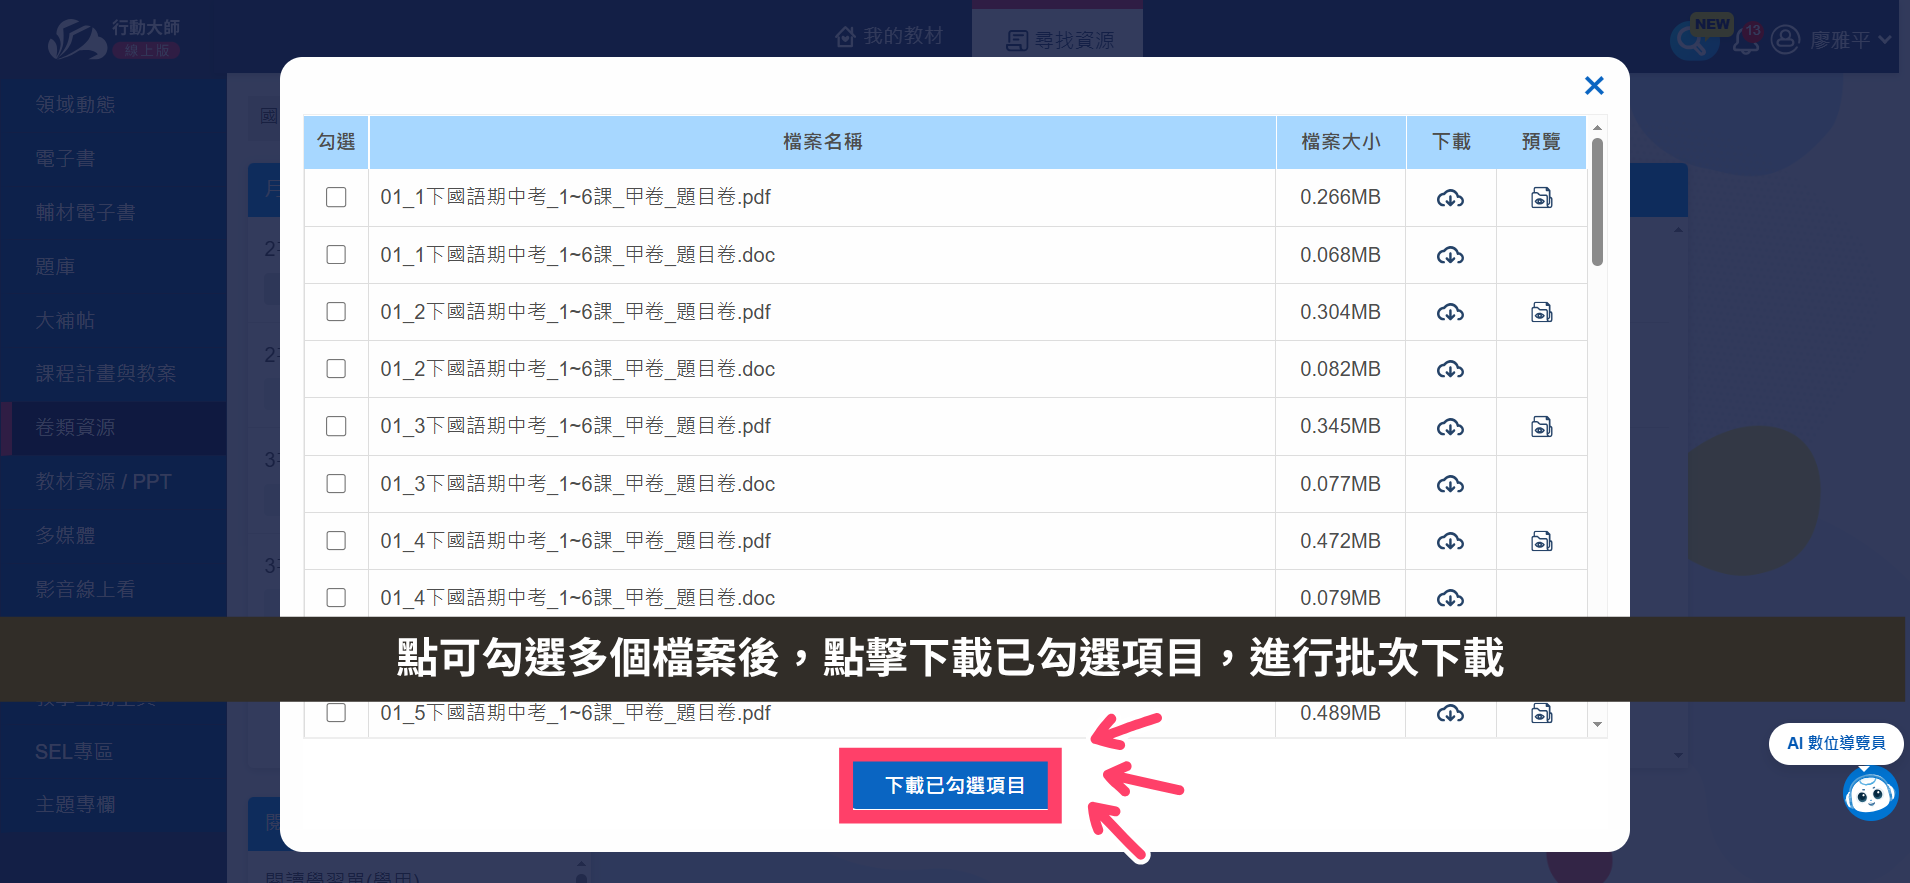
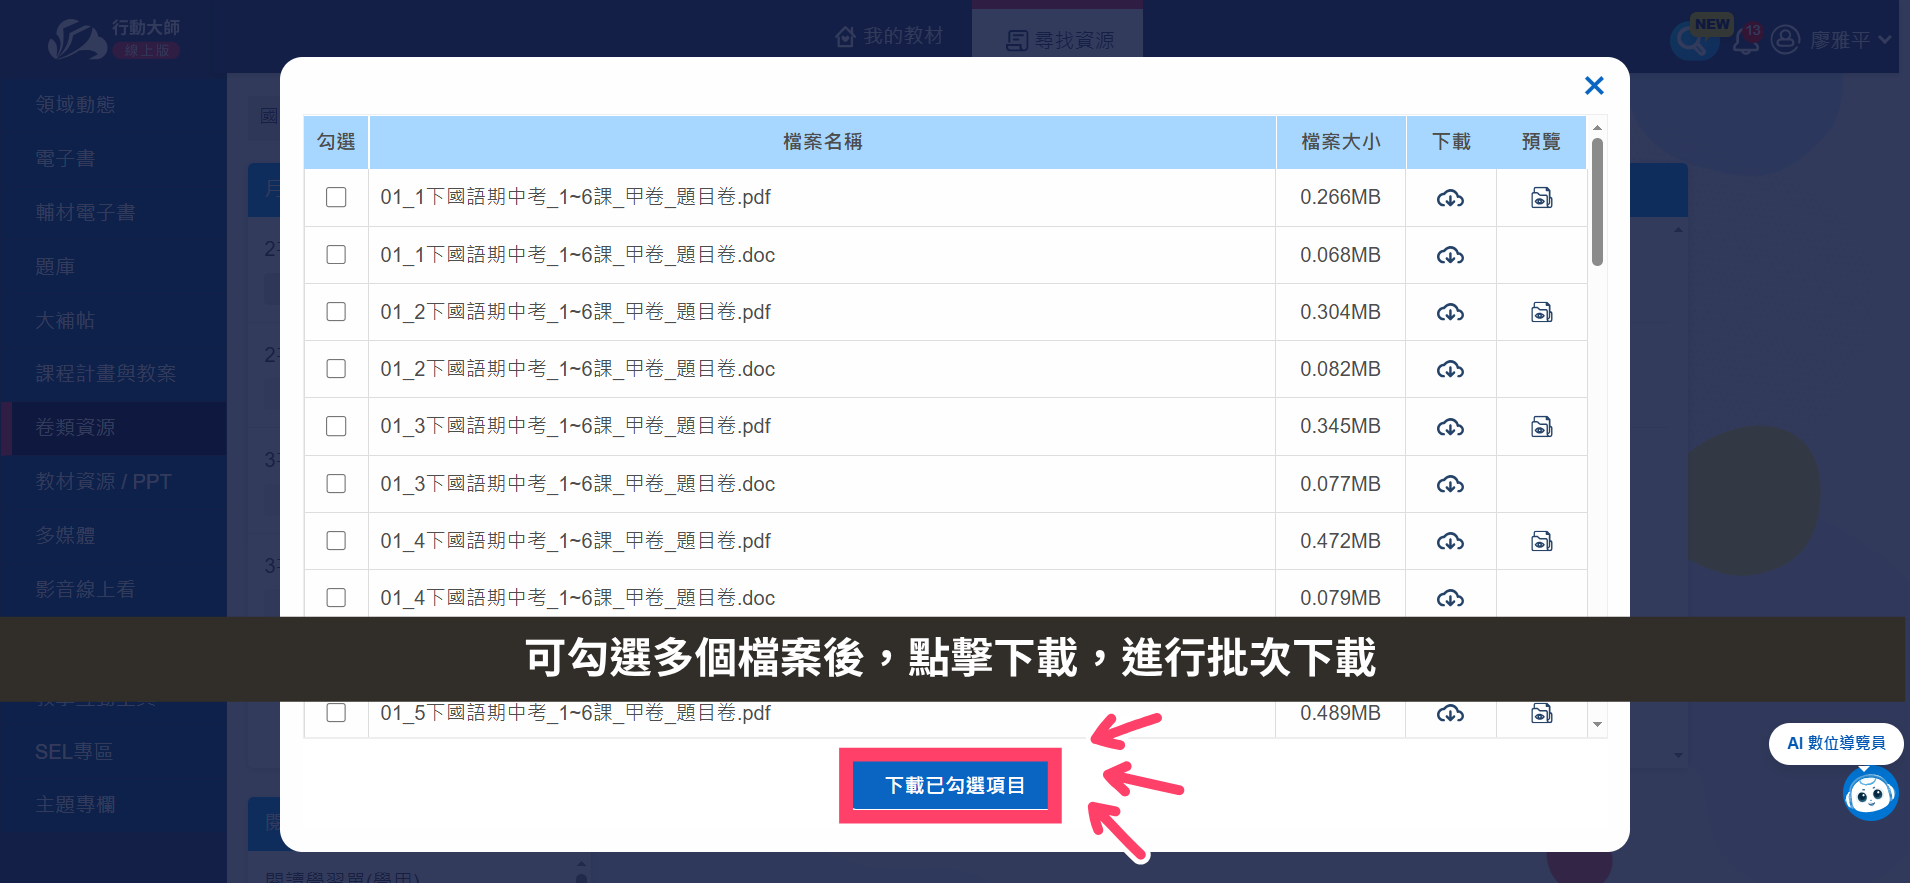
更新行動大師操作引導第11頁圖檔，bump SLIDE_V

Changed region(s): [[0.1853, 0.7033, 0.8031, 0.7644]]

diff --git a/course.html b/course.html
@@ -50,7 +50,7 @@
   <script src="js/config.js?v=28"></script>
   <script src="js/courses.js?v=56"></script>
   <script src="js/progress.js?v=30"></script>
-  <script src="js/course.js?v=54"></script>
+  <script src="js/course.js?v=58"></script>
   <script src="js/auth.js?v=36"></script>
 </body>
 </html>

diff --git a/js/course.js b/js/course.js
@@ -22,7 +22,7 @@ function initCourse() {
   var seenLast = false;     // 這一步「曾經翻到過最後一頁」→ 之後翻回去也保持解鎖
   var keyHandler = null;    // 鍵盤翻頁監聽（避免重複疊加）
   var confettiShown = false;// 彩帶只放一次
-  var SLIDE_V = "?v=6";     // 簡報圖片版本；重新輸出投影片後把數字加 1，強制瀏覽器抓新圖
+  var SLIDE_V = "?v=7";     // 簡報圖片版本；重新輸出投影片後把數字加 1，強制瀏覽器抓新圖
 
   // AI 生成教材提示（步驟設 ai:true 時顯示；要改文字改這裡即可）
   var AI_NOTICE =